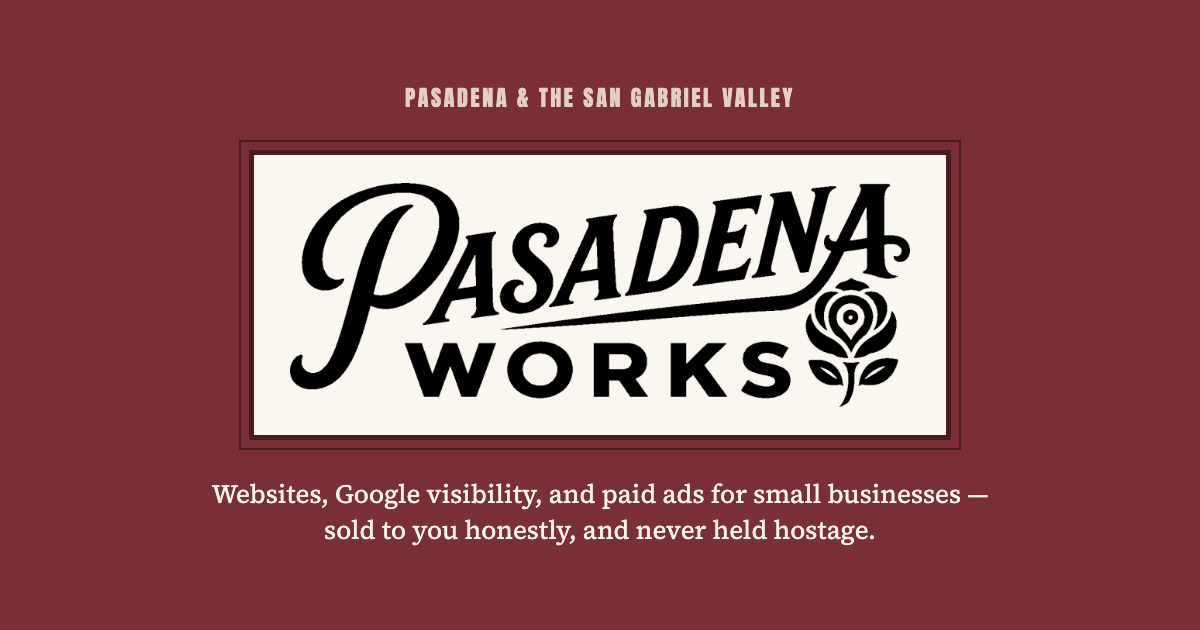
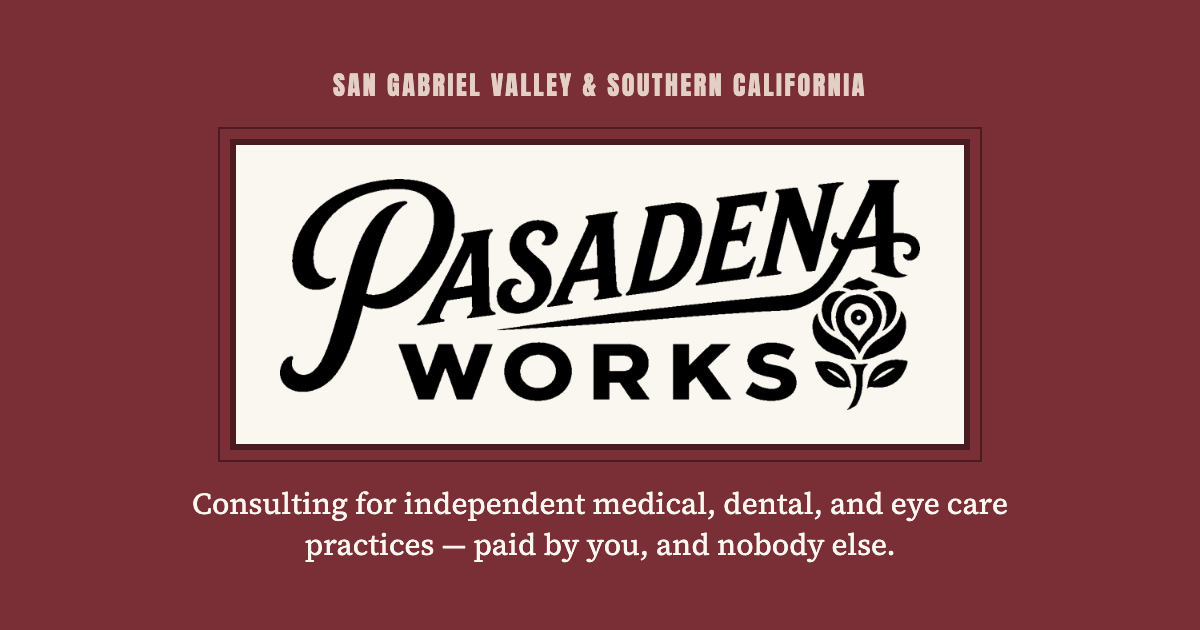
Re-aim hub and footer copy, structured data and the share image at practices
Footer blurb, services index description and intro in all four locales. The
homepage LocalBusiness JSON-LD now names Los Angeles, Orange, Riverside and
San Bernardino counties as AdministrativeArea alongside the home-base cities.
og.png regenerated from the same template as before (headless Chrome, self-
hosted fonts), 1200x630, 94 KB. City and blog index descriptions still say
small businesses on purpose: those pages are out of scope (spec section 9).

Claude-Session: https://claude.ai/code/session_01V3F6Xwi4r3Ggp3N5bsedoy

Changed region(s): [[0.1542, 0.0905, 0.8325, 0.9048], [0.5242, 0.4825, 0.5858, 0.5127]]

diff --git a/src/i18n/ui.ts b/src/i18n/ui.ts
@@ -156,15 +156,15 @@ export const ui: Record<Locale, UIStrings> = {
     },
     footer: {
       rights: 'All rights reserved.',
-      serviceAreaBlurb: 'Serving small businesses in Pasadena and the San Gabriel Valley.',
+      serviceAreaBlurb: 'Consulting for independent health practices, based in the San Gabriel Valley.',
       explore: 'Explore',
       citiesWeServe: 'Cities we serve',
     },
     hub: {
       whatYouGet: 'What you get',
       servicesDescription:
-        'Websites, local SEO, business consulting, and paid ads for small businesses in Pasadena and the San Gabriel Valley.',
-      servicesIntro: 'Four services, ordered by what matters most first.',
+        'A practice checkup, office digitization, and more new patients, for independent medical, dental, and eye care practices throughout Southern California.',
+      servicesIntro: 'Start with the checkup; what it finds decides which of the other two comes next.',
       citiesTitle: 'Cities we work in',
       citiesDescription:
         'Website and local SEO work for small businesses across Pasadena and the San Gabriel Valley.',
@@ -219,15 +219,15 @@ export const ui: Record<Locale, UIStrings> = {
     },
     footer: {
       rights: 'Todos los derechos reservados.',
-      serviceAreaBlurb: 'Atendemos a negocios pequeños en Pasadena y el Valle de San Gabriel.',
+      serviceAreaBlurb: 'Consultoría para consultorios de salud independientes, con base en el Valle de San Gabriel.',
       explore: 'Explorar',
       citiesWeServe: 'Ciudades que atendemos',
     },
     hub: {
       whatYouGet: 'Lo que incluye',
       servicesDescription:
-        'Sitios web, SEO local, asesoría de negocios y publicidad paga para negocios pequeños en Pasadena y el Valle de San Gabriel.',
-      servicesIntro: 'Cuatro servicios, ordenados por lo que más importa primero.',
+        'Revisión integral, digitalización del consultorio y más pacientes nuevos para consultorios médicos, dentales y de optometría independientes de todo el sur de California.',
+      servicesIntro: 'Empiece por la revisión; lo que encuentre decidirá cuál de los otros dos servicios sigue.',
       citiesTitle: 'Ciudades donde trabajamos',
       citiesDescription:
         'Sitios web y SEO local para negocios pequeños en Pasadena y el Valle de San Gabriel.',
@@ -282,14 +282,14 @@ export const ui: Record<Locale, UIStrings> = {
     },
     footer: {
       rights: '版权所有。',
-      serviceAreaBlurb: '为帕萨迪纳和圣盖博谷的小型企业提供服务。',
+      serviceAreaBlurb: '以圣盖博谷为基地，为独立诊所提供顾问服务。',
       explore: '探索',
       citiesWeServe: '服务城市',
     },
     hub: {
       whatYouGet: '服务内容',
-      servicesDescription: '为帕萨迪纳和圣盖博谷的小型企业提供网站建设、本地谷歌推广、经营咨询和付费广告服务。',
-      servicesIntro: '四项服务，按最重要的排在前面。',
+      servicesDescription: '为南加州各地的独立医疗、牙科与眼科诊所提供全面体检、诊所数字化与新患者开发服务。',
+      servicesIntro: '先从全面体检开始，体检的结果将决定接下来进行另外两项中的哪一项。',
       citiesTitle: '我们服务的城市',
       citiesDescription: '为帕萨迪纳和圣盖博谷的小型企业提供网站建设与本地谷歌推广服务。',
       citiesIntro: '我们为整个圣盖博谷的小型企业提供服务。选择您所在的城市，看看当地最重要的事。',
@@ -340,14 +340,14 @@ export const ui: Record<Locale, UIStrings> = {
     },
     footer: {
       rights: '版權所有。',
-      serviceAreaBlurb: '為帕薩迪納和聖蓋博谷的小型企業提供服務。',
+      serviceAreaBlurb: '以聖蓋博谷為據點，為獨立診所提供顧問服務。',
       explore: '探索',
       citiesWeServe: '服務城市',
     },
     hub: {
       whatYouGet: '服務內容',
-      servicesDescription: '為帕薩迪納和聖蓋博谷的小型企業提供網站建置、在地 Google 推廣、經營諮詢與付費廣告服務。',
-      servicesIntro: '四項服務，依最重要的排在前面。',
+      servicesDescription: '為南加州各地的獨立醫療、牙科與眼科診所提供全面健檢、診所數位化與新病患開發服務。',
+      servicesIntro: '先從全面健檢開始，健檢的結果將決定接下來進行另外兩項中的哪一項。',
       citiesTitle: '我們服務的城市',
       citiesDescription: '為帕薩迪納和聖蓋博谷的小型企業提供網站建置與在地 Google 推廣服務。',
       citiesIntro: '我們為整個聖蓋博谷的小型企業提供服務。選擇您所在的城市，看看當地最重要的事。',

diff --git a/src/layouts/local-business-schema.test.ts b/src/layouts/local-business-schema.test.ts
@@ -1,0 +1,28 @@
+import { describe, it, expect } from 'vitest';
+import { readFileSync, existsSync } from 'node:fs';
+import { join, dirname } from 'node:path';
+import { fileURLToPath } from 'node:url';
+import { site } from '../data/site';
+
+/**
+ * The homepage's LocalBusiness JSON-LD, read from the BUILT page because the
+ * value only exists after Base.astro renders it. Skips without dist/; ci.yml
+ * re-runs the suite after building.
+ */
+const DIST = join(dirname(fileURLToPath(import.meta.url)), '../../dist');
+
+describe.skipIf(!existsSync(DIST))('LocalBusiness schema on the built homepage', () => {
+  it('names the home-base cities and the Southern California counties', () => {
+    const html = readFileSync(join(DIST, 'index.html'), 'utf8');
+    const raw = html.match(/<script type="application\/ld\+json">([\s\S]*?)<\/script>/)?.[1];
+    expect(raw, 'no JSON-LD on the homepage').toBeDefined();
+    const areas = (JSON.parse(raw!).areaServed as { '@type': string; name: string }[]).map(
+      (a) => `${a['@type']}:${a.name}`,
+    );
+    expect(areas).toContain('City:Pasadena');
+    expect(site.regionServed.length).toBeGreaterThan(0);
+    for (const county of site.regionServed) {
+      expect(areas).toContain(`AdministrativeArea:${county}`);
+    }
+  });
+});

diff --git a/src/data/site.ts b/src/data/site.ts
@@ -51,6 +51,11 @@ export const site = {
     'Los Angeles',
   ],
 
+  /* Beyond the home-base cities: the practice work reaches across Southern
+     California (2026-09-14). Emitted as schema.org AdministrativeArea. City
+     landing pages are still driven by serviceArea alone. */
+  regionServed: ['Los Angeles County', 'Orange County', 'Riverside County', 'San Bernardino County'],
+
   /* Profiles the business actually maintains. These are emitted as schema.org
      `sameAs` on the homepage, which is how Google ties this site to the same
      business entity elsewhere — so a wrong or dead URL here is worse than an
